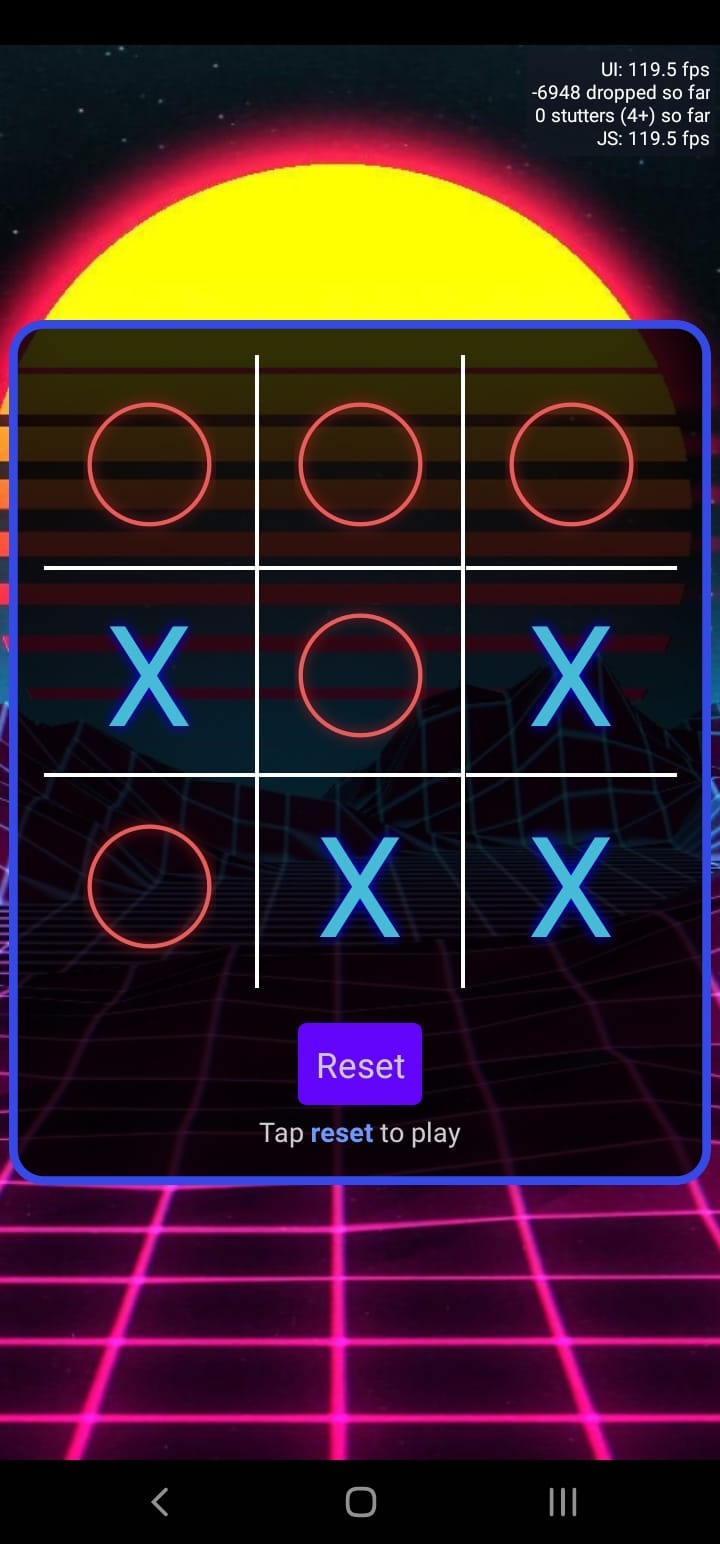
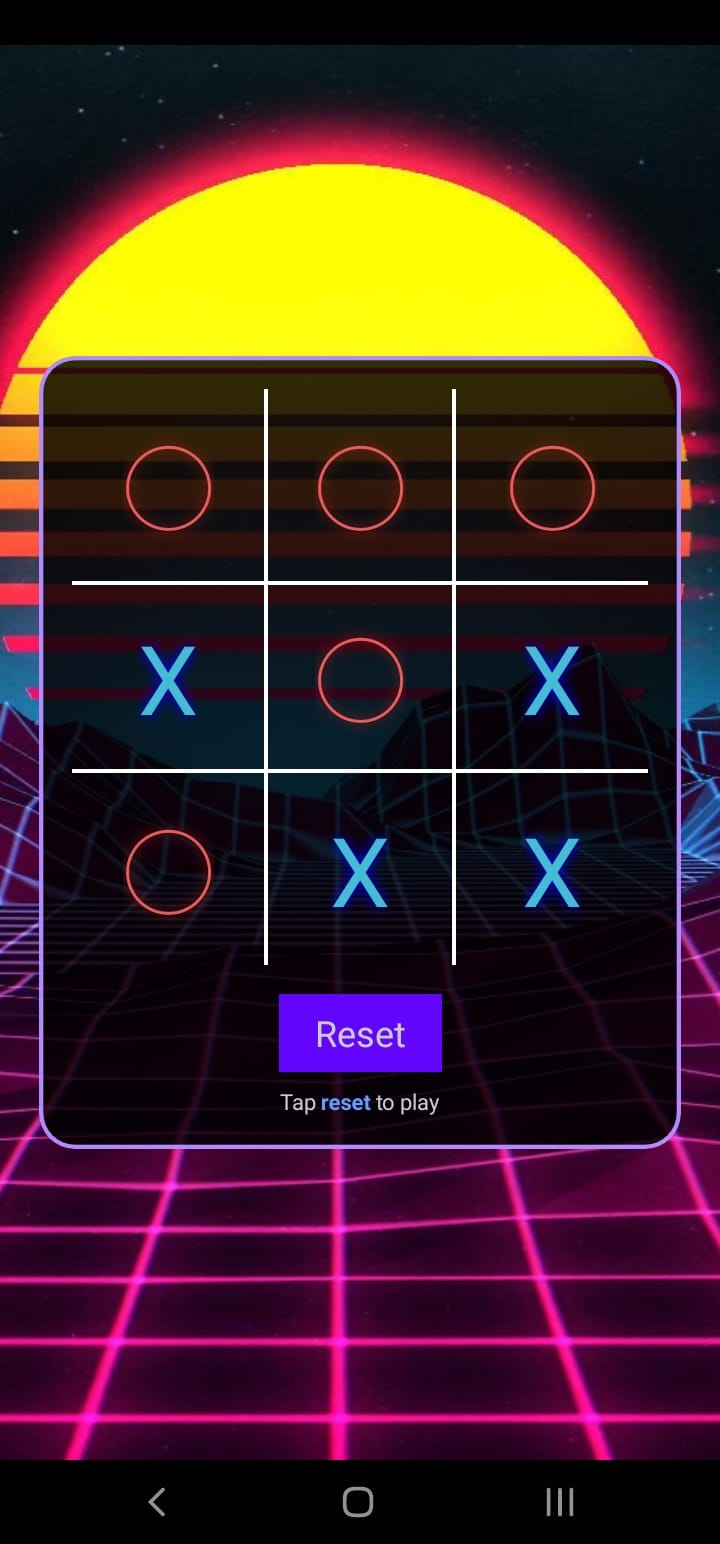
updated readme and screenshot

diff --git a/README.md b/README.md
@@ -1,6 +1,6 @@
-# Tic Tac Toe Game
+# Tic Tac Toe
 
-This is a simple Tic Tac Toe built using React Native.
+This is a simple responsive Tic Tac Toe built using React Native for **CM3050 graded assignment 2.701 (Responsive naughts and crosses UI)**.
 
 please view the expo.txt file for the link to the online development server
 
